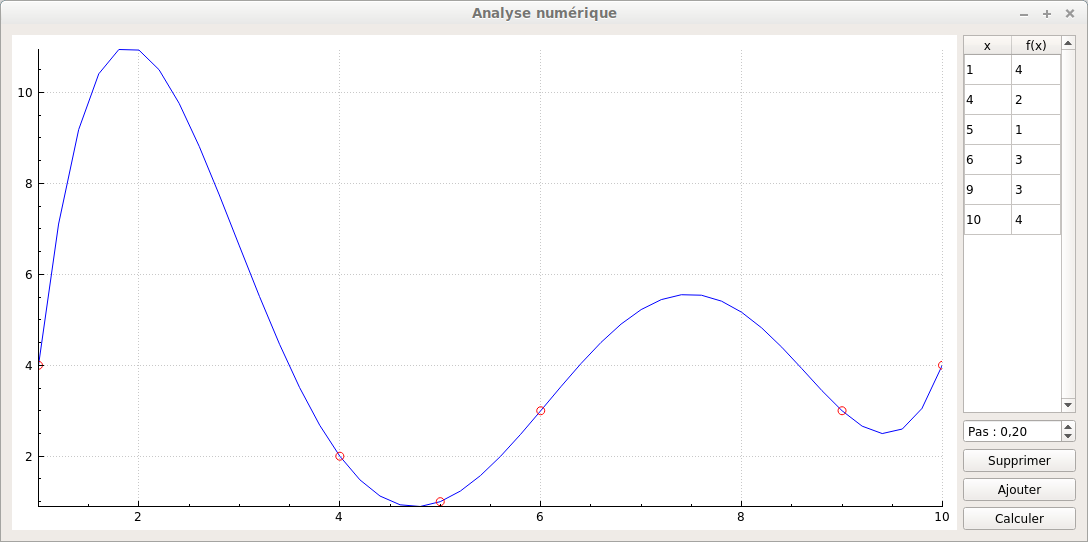
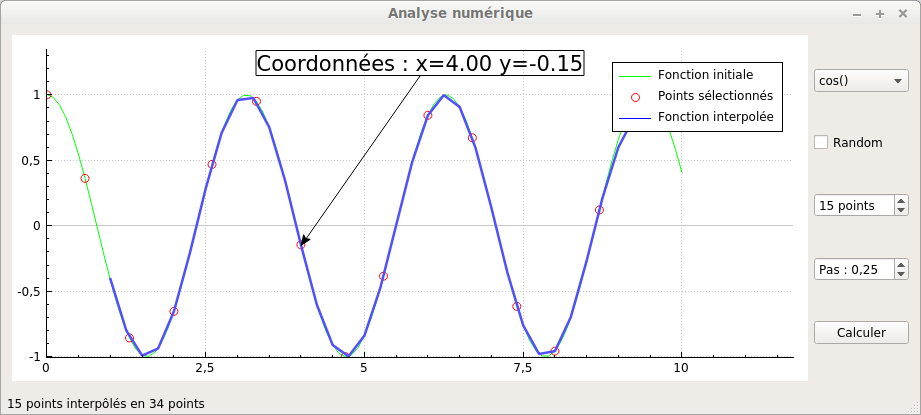
Courbe initiale, extraction aléatoire des points

diff --git a/principal.cpp b/principal.cpp
@@ -4,51 +4,35 @@ Principal::Principal(QWidget *parent) :
     QMainWindow(parent)
 {
     setupUi(this);
-    connect(customPlot, SIGNAL(plottableClick(QCPAbstractPlottable*,int,QMouseEvent*)), this, SLOT(afficherPoint(QCPAbstractPlottable*,int,QMouseEvent*)));
+    connect(graphique, SIGNAL(plottableClick(QCPAbstractPlottable*,int,QMouseEvent*)), this, SLOT(afficherPoint(QCPAbstractPlottable*,int,QMouseEvent*)));
     connect(btnCalculer, SIGNAL(clicked(bool)), this, SLOT(calculerPoints(bool)));
-    connect(btnAjout, SIGNAL(clicked(bool)), this, SLOT(ajoutPoint(bool)));
-    connect(btnSuppr, SIGNAL(clicked(bool)), this, SLOT(supprPoint(bool)));
+    connect(choixCourbe, SIGNAL(currentTextChanged(QString)), this, SLOT(tracerCourbeInitiale(QString)));
 
-    tabValeur->setHorizontalHeaderLabels(QStringList({"x", "f(x)"}));    
+    graphique->addGraph(); graphique->addGraph(); graphique->addGraph(); // on crée les trois graphiques
+    makePlot();
+}
+
+void Principal::tracerCourbeInitiale(QString nomFonction)
+{
+    traitement.calculerCourbeInitiale(nomFonction);
     makePlot();
 }
 
 void Principal::calculerPoints(bool)
 {
-    int n = tabValeur->rowCount();
-    traitement.nb_points = n;
-    traitement.X1.resize(n);
-    traitement.Y1.resize(n);
-
-    // récupère les valeurs du tableau pour les placer dans X1 et Y1
-    for(int i=0; i < n; i++)
-    {
-        traitement.X1[i] = tabValeur->item(i,0)->text().toDouble();
-        traitement.Y1[i] = tabValeur->item(i,1)->text().toDouble();
-    }
-
     etiquette->setVisible(false);
     fleche->setVisible(false);
-    traitement.pas = inputPas->value();
-    traitement.calculNewton();
+    traitement.calculerCourbeInitiale(choixCourbe->currentText());
+    traitement.calculerPointsInitiaux(inputNbPoints->value(), inputRandom->isChecked());
+    traitement.calculNewton(inputPas->value());
+    barreEtat->showMessage(QString::number(traitement.Xselec.size()) + " points interpôlés en " + QString::number(traitement.Xinterp.size()) + " points");
     makePlot();
-    customPlot->replot();
-}
-
-void Principal::ajoutPoint(bool)
-{
-    tabValeur->insertRow(tabValeur->rowCount());
-}
-
-void Principal::supprPoint(bool)
-{
-    tabValeur->removeRow(tabValeur->rowCount()-1);
 }
 
 void Principal::afficherPoint(QCPAbstractPlottable *courbe, int, QMouseEvent *event)
 {
-    double x = customPlot->xAxis->pixelToCoord(event->pos().x());
-    double y = customPlot->yAxis->pixelToCoord(event->pos().y());
+    double x = graphique->xAxis->pixelToCoord(event->pos().x());
+    double y = graphique->yAxis->pixelToCoord(event->pos().y());
 
     qDebug().nospace() << courbe->name() << " x=" << x << " y=" << y;
 
@@ -57,31 +41,39 @@ void Principal::afficherPoint(QCPAbstractPlottable *courbe, int, QMouseEvent *ev
     fleche->start->setParentAnchor(etiquette->bottom);
     fleche->end->setCoords(x, y);
     fleche->setVisible(true);
-    customPlot->replot();
+    graphique->replot();
 }
+
 
 void Principal::makePlot()
 {
-    // ajoute deux courbes
-    customPlot->addGraph();
-    customPlot->graph(0)->setPen(QPen(Qt::blue)); // couleur bleu pour la premier courbe
-    customPlot->addGraph();
-    customPlot->graph(1)->setPen(QPen(Qt::red)); // couleur rouge pour la premier courbe
-    customPlot->graph(1)->setLineStyle(QCPGraph::lsNone); // affiche uniquement les points
-    customPlot->graph(1)->setScatterStyle(QCPScatterStyle(QCPScatterStyle::ssCircle, 8)); // les points sont en forme de cercle de rayon 8px
+    // ajoute trois courbes
+    graphique->graph(0)->setPen(QPen(Qt::green)); // couleur bleu pour fonction initiale
+    graphique->graph(1)->setPen(QPen(Qt::red)); // couleur rouge pour les points
+    graphique->graph(1)->setLineStyle(QCPGraph::lsNone); // affiche uniquement les points
+    graphique->graph(1)->setScatterStyle(QCPScatterStyle(QCPScatterStyle::ssCircle, 8)); // les points sont en forme de cercle de rayon 8px
+    graphique->graph(2)->setPen(QPen(Qt::blue)); // couleur bleu pour la fonction interpolée
+
+    // ajoute une légende
+    graphique->legend->setVisible(true);
+    // customPlot->axisRect()->insetLayout()->setInsetAlignment(0, Qt::AlignLeft|Qt::AlignTop); Mettre la légende à gauche
+    graphique->graph(0)->setName("Fonction initiale");
+    graphique->graph(1)->setName("Points sélectionnés");
+    graphique->graph(2)->setName("Fonction interpolée");
 
     // envoie les données au graphique
-    customPlot->graph(0)->setData(traitement.X0, traitement.Y0);
-    customPlot->graph(1)->setData(traitement.X1, traitement.Y1);
+    graphique->graph(0)->setData(traitement.Xinit, traitement.Yinit);
+    graphique->graph(1)->setData(traitement.Xselec, traitement.Yselec);
+    graphique->graph(2)->setData(traitement.Xinterp, traitement.Yinterp);
 
     // Redimensionne les axes
-    customPlot->rescaleAxes();
+    graphique->rescaleAxes();
 
     // Permet de scroller avec la souris, zoomer avec la molette et de sélectionner les graphiques
-    customPlot->setInteractions(QCP::iRangeDrag | QCP::iRangeZoom | QCP::iSelectPlottables);
+    graphique->setInteractions(QCP::iRangeDrag | QCP::iRangeZoom | QCP::iSelectPlottables);
 
     // ajoute un label
-    etiquette = new QCPItemText(customPlot);
+    etiquette = new QCPItemText(graphique);
     etiquette->setPositionAlignment(Qt::AlignTop|Qt::AlignHCenter);
     etiquette->position->setType(QCPItemPosition::ptAxisRectRatio);
     etiquette->position->setCoords(0.5, 0); // place en haut au milieu
@@ -90,8 +82,11 @@ void Principal::makePlot()
     etiquette->setVisible(false);
 
     // ajoute une flèche
-    fleche = new QCPItemLine(customPlot);
+    fleche = new QCPItemLine(graphique);
     fleche->setHead(QCPLineEnding::esSpikeArrow);
     fleche->setVisible(false);
+
+    // ré-actualise l'affichage
+    graphique->replot();
 }
 

diff --git a/traitement.cpp b/traitement.cpp
@@ -1,17 +1,21 @@
 #include "traitement.h"
 
-void Traitement::calculNewton()
+/**
+ * @brief Traitement::calculNewton
+ * @param pas : corresponds à l'intervale entre chaque valeur de x à interpoler
+ */
+void Traitement::calculNewton(double pas)
 {
     QVector<QVector<double> > mat_diff_div; // tableau des différences divisés
-    // le pas corresponds à l'intervale entre chaque valeurs de x à interpoler
     double min=1/pas;                       // valeur minimum
-    double max=X1.last()*min;               // valeur maximum
+    double max=Xselec.last()*min;           // valeur maximum : le dernier c'est pas forcément le maxxxx
     double nb_points_interp=(max-min)+1;    // nombre de points interpolés
+    nb_points = Xselec.size();
     int n=nb_points - 1;                    // indice du dernier élément de X1
     double val_polynome;                    // contiendra chaque point du polynome
 
-    X0.resize(nb_points_interp);
-    Y0.resize(nb_points_interp);
+    Xinterp.resize(nb_points_interp);
+    Yinterp.resize(nb_points_interp);
 
     qDebug() << "Calcul des différences divisées :";
     mat_diff_div = DifferencesDivisees();
@@ -20,18 +24,22 @@ void Traitement::calculNewton()
     for (int i = 0; min <= max; min++, i++)
     {
         // Calcul des points X0 d'interpolation
-        X0[i] = pas*min;
+        Xinterp[i] = pas*min;
 
         // Calcul des points Y0 d'interpolation
         val_polynome = mat_diff_div[0][n];
         for (int j = 1; j <= n; j++)
-            val_polynome = val_polynome * (X0[i] - X1[n - j]) + mat_diff_div[0][n - j];
-        Y0[i] = val_polynome;
+            val_polynome = val_polynome * (Xinterp[i] - Xselec[n - j]) + mat_diff_div[0][n - j];
+        Yinterp[i] = val_polynome;
 
-        qDebug().nospace() << "X0=" << X0[i] << "\t Y0=" << Y0[i];
+        qDebug().nospace() << "X0=" << Xinterp[i] << "\t Y0=" << Yinterp[i];
     }
 }
 
+/**
+ * @brief Traitement::DifferencesDivisees
+ * @return tableau des différences divisées
+ */
 QVector<QVector<double> > Traitement::DifferencesDivisees()
 {
     int i, j;
@@ -41,12 +49,12 @@ QVector<QVector<double> > Traitement::DifferencesDivisees()
 
     // calcul du premier coefficient
     for (i = 0; i < nb_points; i++)
-        mat_diff_div[i][0] = Y1[i];
+        mat_diff_div[i][0] = Yselec[i];
 
     // calcul de chaque colonne ligne à ligne
     for (i = 1; i < nb_points; i++)
         for (j = 0; j < nb_points - i; j++)
-            mat_diff_div[j][i] = (mat_diff_div[j + 1][i - 1] - mat_diff_div[j][i - 1]) / (X1[j + i] - X1[j]);
+            mat_diff_div[j][i] = (mat_diff_div[j + 1][i - 1] - mat_diff_div[j][i - 1]) / (Xselec[j + i] - Xselec[j]);
 
 
     for (i = 0; i <= 4; i++)
@@ -57,4 +65,66 @@ QVector<QVector<double> > Traitement::DifferencesDivisees()
     }
 
     return mat_diff_div;
+}
+
+/**
+ * @brief Traitement::calculerCourbeInitiale crée une fonction initiale "parfaite" (Xinit, Yinit) que l'on comparera avec la courbe interpolée
+ * @param nomFonction : nom de la fonction à tracer
+ */
+void Traitement::calculerCourbeInitiale(QString nomFonction)
+{
+    double min=0;   // valeur minimum
+    double max=10;  // valeur maximum
+
+    Xinit.clear(); Yinit.clear(); // on efface le tableau
+    for(double i=min; i < max; i+=0.1)
+    {
+        Xinit.append(i);
+        if(nomFonction == "cos()") Yinit.append(cos(i*2));
+        if(nomFonction == "sin()") Yinit.append(sin(i*2));
+        if(nomFonction == "tan()") Yinit.append(tan(i*2));
+        if(nomFonction == "pow()") Yinit.append(pow(i, 2));
+        if(nomFonction == "sqrt()")Yinit.append(sqrt(i));
+        if(nomFonction == "log()") Yinit.append(log(i));
+        if(nomFonction == "exp()") Yinit.append(exp(i));
+    }
+
+    //for(int i=0; i<Xinit.size(); i++)
+    //    qDebug().nospace().noquote() << nomFonction << ": x=" << Xinit[i] << " y=" << Yinit[i];
+}
+
+/**
+ * @brief Traitement::calculerPointsInitiaux
+ * @param nbPointsInterp : nombre de points à extraire de la fonction initiale (Xinit/Yinit)
+ * @param randomActive : active ou non la sélection des points de manière aléatoire
+ */
+void Traitement::calculerPointsInitiaux(int nbPointsInterp, bool randomActive)
+{
+    int i;
+    Xselec.clear(); Yselec.clear(); // on efface le tableau
+    if(randomActive)
+    {
+        int random=0;
+        for (i = 0; i < nbPointsInterp; i++) {
+            random = rand() % Xinit.size();
+            Xselec.append(Xinit[random]);
+            Yselec.append(Yinit[random]);
+        }
+
+        // remet dans l'ordre (à cause du random)
+        QMap<double, double> sortMap;
+        for (i = 0; i < Xselec.size(); ++i)
+            sortMap.insertMulti(Xselec.at(i), Yselec.at(i));
+
+        Xselec = sortMap.keys().toVector();
+        Yselec = sortMap.values().toVector();
+    }
+
+    else {
+        // version sans random
+        for (i=0; i < nbPointsInterp; i++) {
+            Xselec.append(Xinit[(i*Xinit.size()/nbPointsInterp)]);
+            Yselec.append(Yinit[(i*Xinit.size()/nbPointsInterp)]);
+        }
+    }
 }

diff --git a/traitement.h b/traitement.h
@@ -4,18 +4,19 @@
 #include <QVector>
 #include <QtMath>
 #include <QDebug>
-#include <math.h>
 #define NMAX 50
 
 class Traitement
 {
 public:
-    void calculNewton();
-    QVector<QVector<double> > DifferencesDivisees();
+    void calculNewton(double pas);
+    void calculerCourbeInitiale(QString nomFonction);
+    void calculerPointsInitiaux(int nbPointsInterp, bool randomActive);
+    QVector<double> Xinterp, Yinterp, Xselec, Yselec, Xinit, Yinit;
 
-    QVector<double> X0, Y0, X1, Y1;
+private:
+    QVector<QVector<double> > DifferencesDivisees();
     int nb_points;
-    double pas;
 };
 
 #endif // TRAITEMENT_H

diff --git a/principal.h b/principal.h
@@ -4,7 +4,6 @@
 #include "ui_principal.h"
 #include "qcustomplot.h"
 #include "traitement.h"
-#include <math.h>
 
 class Principal : public QMainWindow, private Ui::Principal
 {
@@ -15,10 +14,9 @@ public:
 
 private slots:
     void makePlot();
-    void afficherPoint(QCPAbstractPlottable *courbe, int, QMouseEvent*);
+    void afficherPoint(QCPAbstractPlottable *, int, QMouseEvent*);
     void calculerPoints(bool);
-    void ajoutPoint(bool);
-    void supprPoint(bool);
+    void tracerCourbeInitiale(QString nomFonction);
 private:
     QCPItemLine *fleche;
     QCPItemText *etiquette;
